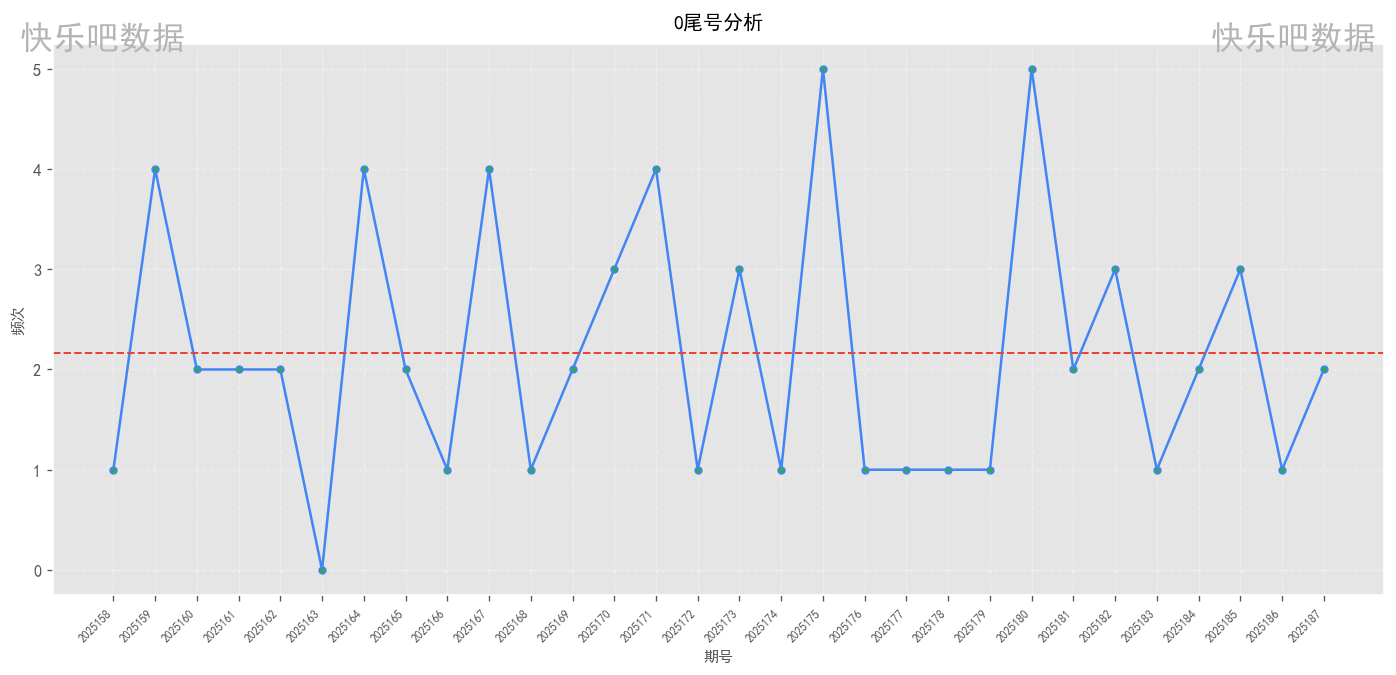
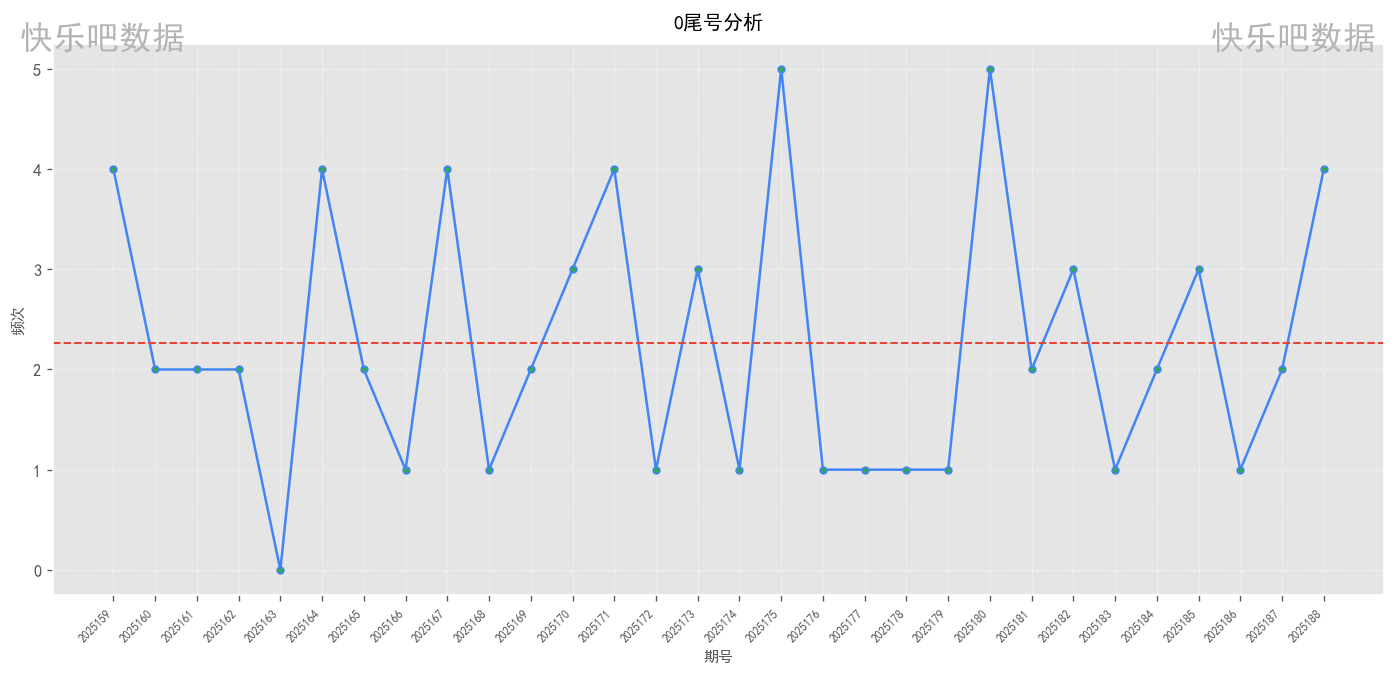
自动提交报告 20250717_2257

diff --git a/快乐8尾号分析项目/数据报告/20250717/report.html b/快乐8尾号分析项目/数据报告/20250717/report.html
@@ -440,7 +440,7 @@
                     <div class="label">尾号区间</div>
                 </div>
                 <div class="overview-card">
-                    <div class="value">2025187</div>
+                    <div class="value">2025188</div>
                     <div class="label">最新期号</div>
                 </div>
                 <div class="overview-card">
@@ -464,11 +464,11 @@
             <div class="stats-summary">
                 <div class="stat-item">
                     <span class="stat-label">历史平均</span>
-                    <span class="stat-value">2.17</span>
+                    <span class="stat-value">2.27</span>
                 </div>
                 <div class="stat-item">
                     <span class="stat-label">近期平均</span>
-                    <span class="stat-value">1.80</span>
+                    <span class="stat-value">2.40</span>
                 </div>
                 <div class="stat-item">
                     <span class="stat-label">最高频次</span>
@@ -486,11 +486,11 @@
             <div class="stats-summary">
                 <div class="stat-item">
                     <span class="stat-label">历史平均</span>
-                    <span class="stat-value">2.13</span>
+                    <span class="stat-value">2.10</span>
                 </div>
                 <div class="stat-item">
                     <span class="stat-label">近期平均</span>
-                    <span class="stat-value">2.20</span>
+                    <span class="stat-value">2.00</span>
                 </div>
                 <div class="stat-item">
                     <span class="stat-label">最高频次</span>
@@ -508,7 +508,7 @@
             <div class="stats-summary">
                 <div class="stat-item">
                     <span class="stat-label">历史平均</span>
-                    <span class="stat-value">1.90</span>
+                    <span class="stat-value">1.80</span>
                 </div>
                 <div class="stat-item">
                     <span class="stat-label">近期平均</span>
@@ -516,7 +516,7 @@
                 </div>
                 <div class="stat-item">
                     <span class="stat-label">最高频次</span>
-                    <span class="stat-value">5</span>
+                    <span class="stat-value">4</span>
                 </div>
             </div>
         </div>
@@ -530,11 +530,11 @@
             <div class="stats-summary">
                 <div class="stat-item">
                     <span class="stat-label">历史平均</span>
-                    <span class="stat-value">2.03</span>
+                    <span class="stat-value">1.90</span>
                 </div>
                 <div class="stat-item">
                     <span class="stat-label">近期平均</span>
-                    <span class="stat-value">2.80</span>
+                    <span class="stat-value">2.20</span>
                 </div>
                 <div class="stat-item">
                     <span class="stat-label">最高频次</span>
@@ -556,7 +556,7 @@
                 </div>
                 <div class="stat-item">
                     <span class="stat-label">近期平均</span>
-                    <span class="stat-value">1.00</span>
+                    <span class="stat-value">1.20</span>
                 </div>
                 <div class="stat-item">
                     <span class="stat-label">最高频次</span>
@@ -574,11 +574,11 @@
             <div class="stats-summary">
                 <div class="stat-item">
                     <span class="stat-label">历史平均</span>
-                    <span class="stat-value">2.30</span>
+                    <span class="stat-value">2.27</span>
                 </div>
                 <div class="stat-item">
                     <span class="stat-label">近期平均</span>
-                    <span class="stat-value">3.60</span>
+                    <span class="stat-value">3.20</span>
                 </div>
                 <div class="stat-item">
                     <span class="stat-label">最高频次</span>
@@ -596,11 +596,11 @@
             <div class="stats-summary">
                 <div class="stat-item">
                     <span class="stat-label">历史平均</span>
-                    <span class="stat-value">2.23</span>
+                    <span class="stat-value">2.30</span>
                 </div>
                 <div class="stat-item">
                     <span class="stat-label">近期平均</span>
-                    <span class="stat-value">2.40</span>
+                    <span class="stat-value">2.60</span>
                 </div>
                 <div class="stat-item">
                     <span class="stat-label">最高频次</span>
@@ -622,7 +622,7 @@
                 </div>
                 <div class="stat-item">
                     <span class="stat-label">近期平均</span>
-                    <span class="stat-value">2.00</span>
+                    <span class="stat-value">1.80</span>
                 </div>
                 <div class="stat-item">
                     <span class="stat-label">最高频次</span>
@@ -640,15 +640,15 @@
             <div class="stats-summary">
                 <div class="stat-item">
                     <span class="stat-label">历史平均</span>
-                    <span class="stat-value">1.93</span>
+                    <span class="stat-value">2.07</span>
                 </div>
                 <div class="stat-item">
                     <span class="stat-label">近期平均</span>
-                    <span class="stat-value">1.60</span>
+                    <span class="stat-value">2.00</span>
                 </div>
                 <div class="stat-item">
                     <span class="stat-label">最高频次</span>
-                    <span class="stat-value">4</span>
+                    <span class="stat-value">5</span>
                 </div>
             </div>
         </div>
@@ -690,7 +690,7 @@
         <div class="disclaimer">
             <div class="disclaimer-title"><i class="fas fa-exclamation-circle"></i> 法律声明</div>
             <p>本分析报告基于中国福利彩票官网公开数据制作，仅供历史数据分析与参考，严禁用于赌博或任何违法违规用途。</p>
-            <p>根据中国法律，禁止向未成年人传播彩票相关信息。数据统计周期: 2025158期-2025187期 | 生成时间: 2025-07-17 09:35</p>
+            <p>根据中国法律，禁止向未成年人传播彩票相关信息。数据统计周期: 2025159期-2025188期 | 生成时间: 2025-07-17 22:57</p>
         </div>
 
         <!-- 操作按钮 -->

diff --git a/index.html b/index.html
@@ -51,7 +51,7 @@
                 立即查看今日报告
             </a>
         </p>
-        <p>生成时间: 2025-07-17 22:56</p>
+        <p>生成时间: 2025-07-17 22:57</p>
     </div>
 
     <script>
